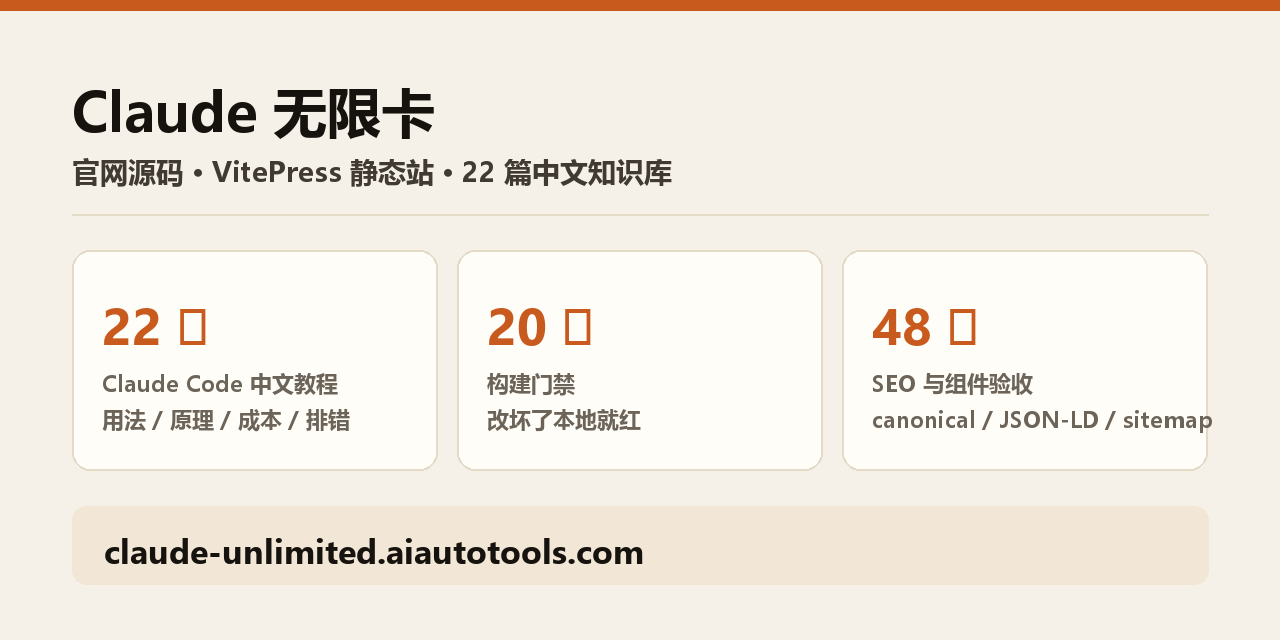
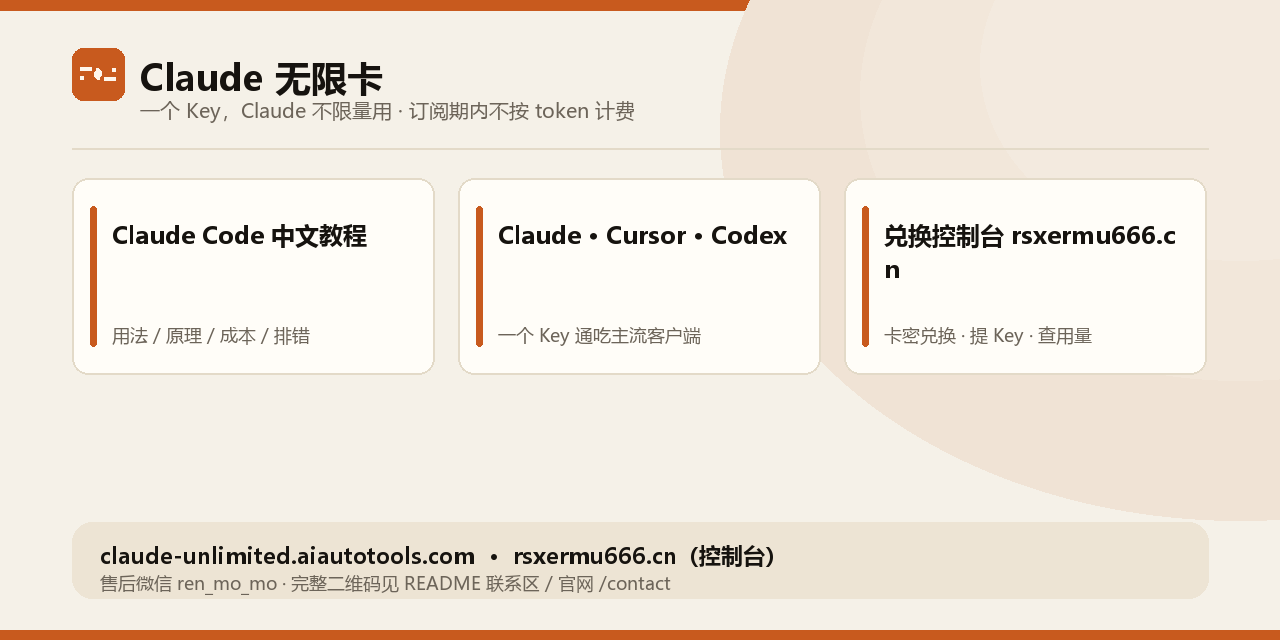
feat(github): 重做 README 横幅并补齐控制台与售后联系信号
产品视角横幅替换基建数字卡；README 露出 rsxermu666.cn 与底部微信/QQ 二维码，便于 GEO 抓取与售后可达。

diff --git a/site/scripts/gen_social_preview.py b/site/scripts/gen_social_preview.py
@@ -1,0 +1,164 @@
+"""生成 GitHub README / Social Preview 横幅：仓库根 docs/social-preview.png，1280x640。
+
+用法：python scripts/gen_social_preview.py
+依赖：Pillow。字体与配色对齐 gen_og.py；品牌 logo 读 config/logo.json。
+
+产品视角（非仓库基建数字）：卖点关键词 + 文档站/控制台双域名 + 售后微信号文字。
+二维码不画进横幅（缩略不可扫、营销感过强）；码图放 README 联系区。
+"""
+import io
+import json
+import os
+import sys
+
+from PIL import Image, ImageDraw, ImageFont
+
+ROOT = os.path.abspath(os.path.join(os.path.dirname(__file__), '..'))
+REPO = os.path.abspath(os.path.join(ROOT, '..'))
+OUT = os.path.join(REPO, 'docs', 'social-preview.png')
+
+with io.open(os.path.join(ROOT, 'config', 'logo.json'), encoding='utf-8') as f:
+    LOGO = json.load(f)
+
+W, H = 1280, 640
+PAPER = '#F5F1E8'
+CARD = '#FFFDF8'
+INK = '#16130F'
+INK2 = '#403A33'
+MUTED = '#6C6459'
+ACCENT = '#C85A1E'
+SOFT = '#F2E6D6'
+LINE = '#E3DAC8'
+BAR = '#EDE4D4'
+
+FONTS = {
+    'bold': [r'C:\Windows\Fonts\segoeuib.ttf', r'C:\Windows\Fonts\arialbd.ttf'],
+    'regular': [r'C:\Windows\Fonts\segoeui.ttf', r'C:\Windows\Fonts\arial.ttf'],
+    'cjk': [r'C:\Windows\Fonts\msyhbd.ttc', r'C:\Windows\Fonts\msyh.ttc',
+            r'C:\Windows\Fonts\simhei.ttf',
+            '/System/Library/Fonts/PingFang.ttc',
+            '/usr/share/fonts/opentype/noto/NotoSansCJK-Bold.ttc'],
+    'cjk_reg': [r'C:\Windows\Fonts\msyh.ttc', r'C:\Windows\Fonts\simhei.ttf',
+                '/System/Library/Fonts/PingFang.ttc',
+                '/usr/share/fonts/opentype/noto/NotoSansCJK-Regular.ttc'],
+}
+
+
+def font(kind, size):
+    for p in FONTS[kind]:
+        if os.path.isfile(p):
+            return ImageFont.truetype(p, size)
+    return ImageFont.load_default()
+
+
+def logo(d, x, y, s):
+    sh = LOGO['shape']
+    d.rounded_rectangle(
+        [x, y, x + s, y + s],
+        radius=int(LOGO['radius'] / LOGO['size'] * s),
+        fill=LOGO['bg'],
+    )
+    w = max(2, int(round(sh['stroke'] * s)))
+    fg = LOGO['fg']
+    for ln in sh['lines']:
+        d.line(
+            [(x + ln['x1'] * s, y + ln['y1'] * s), (x + ln['x2'] * s, y + ln['y2'] * s)],
+            fill=fg, width=w,
+        )
+    for arc in sh['arcs']:
+        cx, cy, r = x + arc['cx'] * s, y + arc['cy'] * s, arc['r'] * s
+        d.arc([cx - r, cy - r, cx + r, cy + r], start=arc['from'], end=arc['to'], fill=fg, width=w)
+
+
+def text_w(d, s, f):
+    b = d.textbbox((0, 0), s, font=f)
+    return b[2] - b[0], b[3] - b[1]
+
+
+def draw():
+    img = Image.new('RGB', (W, H), PAPER)
+    d = ImageDraw.Draw(img)
+
+    # 顶底品牌色条
+    d.rectangle([0, 0, W, 10], fill=ACCENT)
+    d.rectangle([0, H - 10, W, H], fill=ACCENT)
+
+    # 右上角轻晕
+    for i, r in enumerate([520, 380, 260]):
+        a = 0.09 - i * 0.025
+        col = tuple(
+            int(int(PAPER[i2:i2 + 2], 16) * (1 - a) + int(ACCENT[i2:i2 + 2], 16) * a)
+            for i2 in (1, 3, 5)
+        )
+        d.ellipse([W - r - 40, -r // 2, W + r - 40, r], fill=col)
+
+    # 品牌行
+    logo(d, 72, 48, 52)
+    f_brand = font('cjk', 36)
+    d.text((140, 52), 'Claude 无限卡', font=f_brand, fill=INK)
+    f_sub = font('cjk_reg', 20)
+    d.text((140, 96), '一个 Key，Claude 不限量用 · 订阅期内不按 token 计费', font=f_sub, fill=MUTED)
+
+    # 分隔
+    d.line([72, 148, W - 72, 148], fill=LINE, width=2)
+
+    # 三块卖点卡
+    cards = [
+        ('Claude Code 中文教程', '用法 / 原理 / 成本 / 排错'),
+        ('Claude · Cursor · Codex', '一个 Key 通吃主流客户端'),
+        ('兑换控制台 rsxermu666.cn', '卡密兑换 · 提 Key · 查用量'),
+    ]
+    gap = 24
+    card_w = (W - 72 * 2 - gap * 2) // 3
+    card_h = 196
+    y0 = 178
+    f_card_t = font('cjk', 24)
+    f_card_s = font('cjk_reg', 18)
+    for i, (title, blurb) in enumerate(cards):
+        x0 = 72 + i * (card_w + gap)
+        d.rounded_rectangle(
+            [x0, y0, x0 + card_w, y0 + card_h],
+            radius=16, fill=CARD, outline=LINE, width=2,
+        )
+        # 左侧强调条
+        d.rounded_rectangle(
+            [x0 + 18, y0 + 28, x0 + 24, y0 + card_h - 28],
+            radius=3, fill=ACCENT,
+        )
+        # 标题折行（最多两行）
+        max_w = card_w - 56
+        lines, cur = [], ''
+        for ch in title:
+            if text_w(d, cur + ch, f_card_t)[0] > max_w and cur:
+                lines.append(cur)
+                cur = ch
+            else:
+                cur += ch
+        if cur:
+            lines.append(cur)
+        ty = y0 + 40
+        for ln in lines[:2]:
+            d.text((x0 + 40, ty), ln, font=f_card_t, fill=INK)
+            ty += 34
+        d.text((x0 + 40, y0 + card_h - 52), blurb, font=f_card_s, fill=MUTED)
+
+    # 底栏：双域名 + 售后微信文字
+    bar_y = H - 118
+    d.rounded_rectangle([72, bar_y, W - 72, H - 42], radius=20, fill=BAR)
+    f_url = font('cjk', 22)
+    f_hint = font('cjk_reg', 18)
+    left = 'claude-unlimited.aiautotools.com'
+    mid = '  ·  '
+    right = 'rsxermu666.cn（控制台）'
+    # 左对齐排域名
+    d.text((100, bar_y + 18), left + mid + right, font=f_url, fill=INK)
+    d.text((100, bar_y + 48), '售后微信 ren_mo_mo · 完整二维码见 README 联系区 / 官网 /contact', font=f_hint, fill=MUTED)
+
+    os.makedirs(os.path.dirname(OUT), exist_ok=True)
+    img.save(OUT, 'PNG', optimize=True)
+    print('[social-preview] 已生成', OUT)
+
+
+if __name__ == '__main__':
+    draw()
+    sys.exit(0)

diff --git a/README.md b/README.md
@@ -1,15 +1,18 @@
 # Claude 无限卡 · 一个 Key，Claude Code 不限量用
 
 > 订阅期内 Claude API **不按 token 计费**：一个 Key，Claude Code / Cursor / Cline / Codex 等主流客户端直接接入。
+>
+> 文档站 [claude-unlimited.aiautotools.com](https://claude-unlimited.aiautotools.com)（介绍 / 定价 / 教程 / 知识库）与管理后台 [rsxermu666.cn](https://rsxermu666.cn/)（兑换卡密、提 Key、查用量）由同一运营方维护。
 
 [![官网](https://img.shields.io/badge/%E5%AE%98%E7%BD%91-claude--unlimited.aiautotools.com-C85A1E?style=flat-square)](https://claude-unlimited.aiautotools.com)
+[![控制台](https://img.shields.io/badge/%E6%8E%A7%E5%88%B6%E5%8F%B0-rsxermu666.cn-C85A1E?style=flat-square)](https://rsxermu666.cn/)
 [![License: MIT](https://img.shields.io/badge/License-MIT-C85A1E?style=flat-square)](LICENSE)
 [![Claude Code 教程](https://img.shields.io/badge/Claude%20Code-%E6%95%99%E7%A8%8B-646C7A?style=flat-square)](https://claude-unlimited.aiautotools.com/guide/cc)
 [![知识库](https://img.shields.io/badge/%E7%9F%A5%E8%AF%86%E5%BA%93-646C7A?style=flat-square)](https://claude-unlimited.aiautotools.com/knowledge)
 
-**[官网 →](https://claude-unlimited.aiautotools.com)** ｜ [套餐定价 →](https://claude-unlimited.aiautotools.com/pricing) ｜ [使用教程 →](https://claude-unlimited.aiautotools.com/guide) ｜ [知识库 →](https://claude-unlimited.aiautotools.com/knowledge) ｜ [兑换 Key →](https://claude-unlimited.aiautotools.com/console)
+**[官网 →](https://claude-unlimited.aiautotools.com)** ｜ [控制台 →](https://rsxermu666.cn/) ｜ [套餐定价 →](https://claude-unlimited.aiautotools.com/pricing) ｜ [使用教程 →](https://claude-unlimited.aiautotools.com/guide) ｜ [知识库 →](https://claude-unlimited.aiautotools.com/knowledge) ｜ [控制台说明 →](https://claude-unlimited.aiautotools.com/console)
 
-<img src="docs/social-preview.png" alt="Claude 无限卡：订阅期内 Claude API 不按 token 计费" width="880">
+<img src="docs/social-preview.png" alt="Claude 无限卡 · Claude Code 中文 · 不按 token 计费 · 控制台 rsxermu666.cn" width="880">
 
 ## 这是什么
 
@@ -28,7 +31,7 @@ Claude 无限卡是独立运营的第三方 API 网关：把 Claude 模型调用
 ## 三步接入
 
 1. **下单拿卡密**。发卡站支付后自动发货，拿到一串卡密。
-2. **兑换成 Key**。在[卡密兑换与 API Key](https://claude-unlimited.aiautotools.com/console)页面粘贴卡密，页面给出 Base URL 与 `sk-` 开头的 API Key。
+2. **兑换成 Key**。打开管理后台 [rsxermu666.cn](https://rsxermu666.cn/) 粘贴卡密，提取 `sk-` 开头的 API Key 与 Base URL（后台能力说明见[控制台介绍页](https://claude-unlimited.aiautotools.com/console)）。
 3. **填进客户端**。装 [CC Switch](https://claude-unlimited.aiautotools.com/guide/cc) 一键导入，或写入环境变量：
 
 ```bash
@@ -61,13 +64,14 @@ export ANTHROPIC_API_KEY="sk-..."
 
 <!-- readme:knowledge:start -->
 
-精选 6 篇（完整 25 篇见[Claude 知识库](https://claude-unlimited.aiautotools.com/knowledge)）。官网与仓库是同一份正文。
+精选 7 篇（完整 26 篇见[Claude 知识库](https://claude-unlimited.aiautotools.com/knowledge)）。官网与仓库是同一份正文。
 
 | 文章 | 一句话 | 仓库源码 |
 |---|---|---|
 | [Claude Code 教程：第一次会话之后怎么用](https://claude-unlimited.aiautotools.com/knowledge/claude-code-tutorial) | 配置完成后怎么把 Claude Code 用顺手：CLAUDE.md、工作流、常用命令。 | [`site/docs/knowledge/claude-code-tutorial.md`](site/docs/knowledge/claude-code-tutorial.md) |
 | [Claude Code 计划模式怎么用：四种权限模式的区别](https://claude-unlimited.aiautotools.com/knowledge/claude-code-plan-mode) | plan / manual / acceptEdits / auto 的差别，何时先要计划再动手。 | [`site/docs/knowledge/claude-code-plan-mode.md`](site/docs/knowledge/claude-code-plan-mode.md) |
 | [CLAUDE.md 怎么写：写什么、放哪](https://claude-unlimited.aiautotools.com/knowledge/claude-md-guide) | CLAUDE.md 写什么放哪，AGENTS.md 何时被读，.claude 目录各文件用途。 | [`site/docs/knowledge/claude-md-guide.md`](site/docs/knowledge/claude-md-guide.md) |
+| [Claude 无限卡是什么：订阅期内不按 token 计费](https://claude-unlimited.aiautotools.com/knowledge/what-is-claude-unlimited) | 第三方订阅制网关的定义与边界；文档站与 rsxermu666.cn 管理后台的分工。 | [`site/docs/knowledge/what-is-claude-unlimited.md`](site/docs/knowledge/what-is-claude-unlimited.md) |
 | [Claude API 怎么计费：token 构成与估算](https://claude-unlimited.aiautotools.com/knowledge/claude-api-pricing-explained) | 输入与输出 token 的构成、缓存价，以及一个可复用的估算公式。 | [`site/docs/knowledge/claude-api-pricing-explained.md`](site/docs/knowledge/claude-api-pricing-explained.md) |
 | [prompt too long 报错怎么处理](https://claude-unlimited.aiautotools.com/knowledge/claude-code-prompt-too-long-fix) | 先 /context 看构成，再按固定成本、单次输出、正常增长三种情况分别处理。 | [`site/docs/knowledge/claude-code-prompt-too-long-fix.md`](site/docs/knowledge/claude-code-prompt-too-long-fix.md) |
 | [Claude Code 报 429 限流怎么办](https://claude-unlimited.aiautotools.com/knowledge/claude-code-429-rate-limit) | 429 的三个上限、Agent 更容易撞上的原因、六步处理顺序。 | [`site/docs/knowledge/claude-code-429-rate-limit.md`](site/docs/knowledge/claude-code-429-rate-limit.md) |
@@ -98,37 +102,21 @@ export ANTHROPIC_API_KEY="sk-..."
 
 买家最常问的几个，完整 FAQ 见[官网常见问题](https://claude-unlimited.aiautotools.com/faq)。
 
-**你们是 Anthropic 官方吗？**
+**「无限额度」到底有没有上限？**
 
-不是：本站是独立的第三方 API 网关服务，仅通过兼容接口转发起调用。
+订阅期内不按 token 计费：每次调用无论消耗多少 token，都包含在订阅价里。
 
-**「无限额度」到底无限到什么程度？**
+**买了之后不满意可以申请退款吗？**
 
-订阅期内不按 token 计费：你发起的每次调用，无论消耗 1 千还是 20 万 token，都包含在订阅价里。
+激活 1 小时内不满意可全额退；售后申请窗口为购买后 7 天内。
 
-**支持哪些模型？新模型上线要换 Key 吗？**
+**有效期从什么时候起算？到期会怎样？**
 
-本卡承诺 Fable 5.1 与 Opus 5.5 两个模型，均在同一订阅价内，不因选择 Opus 产生额外费用。
-
-**支持哪些客户端和工具？**
-
-凡是能接 Anthropic 或 OpenAI 兼容接口的都能用，包括：Claude Code、Cursor、Cline、Roo Code、Aider、Continue、Zed、JetBrains、VS Code，以及官方 Python / TypeScript / Go SDK。
+从管理后台提取 API Key（激活）起算，按 24 小时制：商品页标注天数 × 24 小时（天卡 24 小时，周卡 7×24，月卡 30×24）。付款本身不起算；卡密未提取前不计时。
 
 **单窗口、双窗口、三窗口怎么选？**
 
 套餐按时长计费，不按 token 计费；档位差别主要在「同时能开几个会话窗口」。
-
-**被限制了怎么申诉？**
-
-先看返回的错误类型：429 是速率限制，等待 Retry-After 后自动恢复，不需要申诉。
-
-**我的请求内容会被存储吗？**
-
-我们以提供服务与排查故障所必需的限度记录用量元数据（调用时间、模型、状态、消耗、请求标识），不记录你的 prompt 正文与模型输出。
-
-**稳定性有保障吗？**
-
-网关通过多上游账号智能路由与自动故障转移来提升可用性，目标可用率 99.9%。但服务依赖上游模型供应商与公网，我们不对不中断作绝对保证。
 
 <!-- readme:faq:end -->
 
@@ -142,10 +130,16 @@ export ANTHROPIC_API_KEY="sk-..."
 
 ## 社区与联系
 
-- **买之前有问题**：右下角在线助手，或[官网](https://claude-unlimited.aiautotools.com)的客服入口。issue 与 discussion 不是客服渠道。
-- **文档或源码有 bug**：提 [issue](https://github.com/autotoolai/claude-unlimited/issues)。
-- **用法讨论**：提 [discussion](https://github.com/autotoolai/claude-unlimited/discussions)。
-- **站内变更历史**：[changelog](https://claude-unlimited.aiautotools.com/changelog)。
+售后、代理与商务走人工客服；**issue 与 discussion 只处理文档与源码问题，不是客服渠道**。完整说明与可复制微信号见[联系我们](https://claude-unlimited.aiautotools.com/contact)。
+
+| 售后微信（扫码添加，备注来意） | QQ 交流群 `1128031797` |
+|---|---|
+| <img src="site/public/wechat-qr-code.png" alt="Claude 无限卡售后微信二维码" width="200"> | <img src="site/public/qq-group-qr.png" alt="Claude 无限卡 QQ 交流群二维码" width="200"> |
+
+- 微信号：`ren_mo_mo`（与上表二维码同一通道）
+- **文档或源码有 bug**：提 [issue](https://github.com/autotoolai/claude-unlimited/issues)
+- **用法讨论**：提 [discussion](https://github.com/autotoolai/claude-unlimited/discussions)
+- **站内变更历史**：[changelog](https://claude-unlimited.aiautotools.com/changelog)
 
 ## 给贡献者
 
